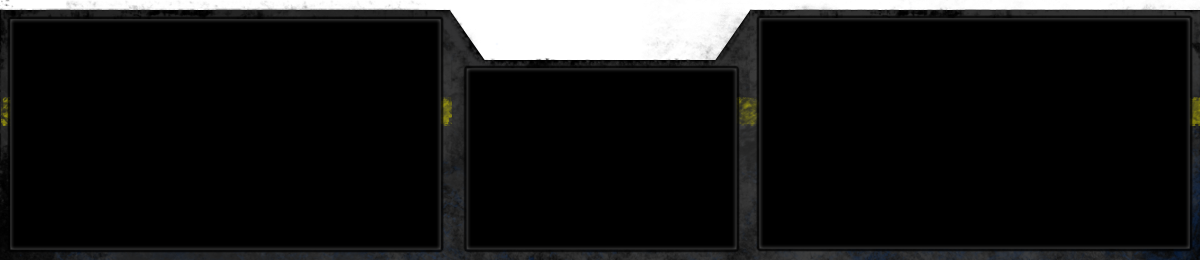
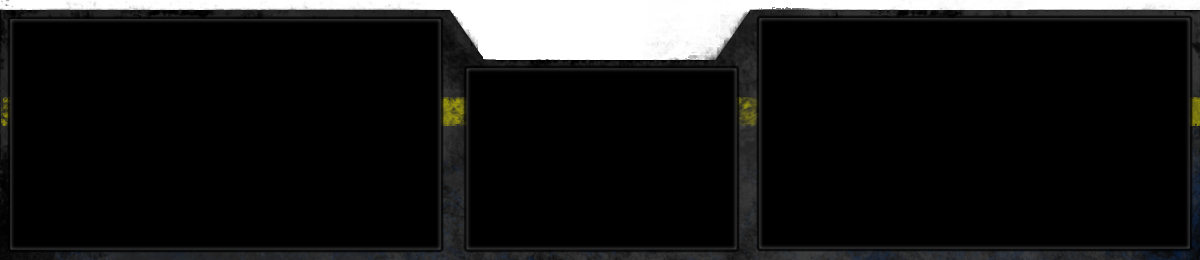
more hovers, combat results menu pretty (but empty), more speed optimizations to prevent graphics lag

diff --git a/tools/selectObject.js b/tools/selectObject.js
@@ -6,6 +6,14 @@ function pickObject()
 	var pl = findObject(ray_sp,ray);
 	return pl;
 }
+function pickObjectSimple()
+{
+	var rays = getRay();
+	var ray = rays.slice(0,4);
+	var ray_sp = rays.slice(4,7);
+	var pl = findObjectSimple(ray_sp,ray);
+	return pl;
+}
 function pickSun()
 {
 	var rays = getRay();
@@ -154,7 +162,46 @@ function getClickLocationOnPlane()
 	
 	return pos;
 }
-
+function findObjectSimple(sp,r)
+{
+	//normalize ray
+	var ray = new v3(r[0],r[1],r[2]);
+	ray = ray.normalize();
+	//create list of possible planets
+	var collisions = new Array();
+	var planetCollisions = new Array();
+	var i,j;
+	var pos = new v3(sp[0],sp[1],sp[2]);
+	
+	
+	var i = -pos.y/ray.y;
+	
+	pos.x = pos.x+i*ray.x;
+	pos.y = pos.y+i*ray.y;
+	pos.z = pos.z+i*ray.z;
+	
+	var pos_2 = new v2(pos.x,pos.z);
+	//now if it's near a planet
+	var pl = null;
+	
+	for (i=0;i<mp.systems.length;i++)
+	{
+		for (j=0;j<mp.systems[i].planets.length;j++)
+		{
+			var xz = new v2(mp.systems[i].planets[j].pos.x+mp.systems[i].pos.x,mp.systems[i].planets[j].pos.z+mp.systems[i].pos.z);
+			var dist = pos_2.distance(xz);
+			if (dist < 70)
+			{
+				pl = new c2(i,j);
+			}
+		}
+	}
+	
+	if (pl != null)
+		return pl;
+	else
+		return -1;
+}
 function checkNear(test,val,amt)
 {
 	if (test < val+amt && test > val-amt)

diff --git a/tools/images.js b/tools/images.js
@@ -5,12 +5,14 @@ function images()
 	this.info_bar = new Image();
 	this.end_turn = new Image();
 	this.upgrade_planet = new Image();
+	this.ok_button = new Image();
 	this.options_bar = new Image();
 	this.planet_cost = new Image();
 	this.left_arrow = new Image();
 	this.right_arrow = new Image();
 	this.hover_background = new Image();
 	this.hover_background_220 = new Image();
+	this.combat_background = new Image();
 	
 	this.planets_64 = new Array();
 	this.ship_buttons = new Array();
@@ -21,12 +23,14 @@ function images()
 	this.info_bar.src = "images/info_bar.png";
 	this.end_turn.src = "images/end_turn_button.png";
 	this.upgrade_planet.src = "images/upgrade_planet_button.png";
+	this.ok_button.src = "images/ok_button.png";
 	this.options_bar.src = "images/options_bar.png";
 	this.planet_cost.src = "images/planet_cost.png";
 	this.left_arrow.src = "images/left_arrow.png";
 	this.right_arrow.src = "images/right_arrow.png";
 	this.hover_background.src = "images/hover_background.png";
 	this.hover_background_220.src = "images/hover_background_220.png";
+	this.combat_background.src = "images/combat_background.png";
 	
 	//load planet images
 	var i;

diff --git a/tools/io_handler.js b/tools/io_handler.js
@@ -7,6 +7,7 @@ function handleMouseMove(evt)
 	{
 		mousex = Math.max(0,Math.min(canvas.width,evt.clientX-10));
 		mousez = Math.max(0,Math.min(canvas.height,evt.clientY-10));
+		drawHover = -1;
 		
 		if (evt.clientX-10>canvas.width || evt.clientY-10>canvas.height)
 		{
@@ -45,10 +46,9 @@ function handleMouseMove(evt)
 			cam.translate(dz/100,-dx/100);
 		}
 		
-		if (!lPressed && !rPressed && !mPressed)
+		if (!lPressed && !rPressed && !mPressed && !anyButtonsPressed())
 		{
 			//hovering code
-			drawHover = -1;
 			//check hovering over buttons
 			if (mousez > canvas.height - OptionBarHeight)
 			{
@@ -80,7 +80,7 @@ function handleMouseMove(evt)
 			}
 			else
 			{ //planet hovers
-				planetHover = pickObject();
+				planetHover = pickObjectSimple();
 				if (planetHover != -1)
 				{
 					//planetXY = mp.systems[planetHover.a].planets[planetHover.b].getPlanetXY();
@@ -332,4 +332,10 @@ function rightDoubleClick()
 {
 	var loc = getClickLocationOnPlane();
 	cam.flyTo(loc);
+}
+function anyButtonsPressed()
+{
+	if (cam.fwd || cam.bck || cam.left || cam.right || shiftPressed)
+		return true;
+	return false;
 }

diff --git a/draw/draw2d.js b/draw/draw2d.js
@@ -223,10 +223,10 @@ function onHover(x,y,type,obj)
 		ctx.drawImage(img.planet_cost, x+x_offset+5,y+y_offset+125);
 		//now draw upgrade costs
 		ctx.font = "12pt Calibri";
-		ctx.fillText(selectedPlanet.upgradeStats.credits, x+x_offset+35, y+y_offset + 136);
-		ctx.fillText(selectedPlanet.upgradeStats.steel, x+x_offset+35, y+y_offset + 136+16);
-		ctx.fillText(selectedPlanet.upgradeStats.plasma, x+x_offset+35, y+y_offset + 136+32);
-		ctx.fillText(selectedPlanet.upgradeStats.antimatter, x+x_offset+35, y+y_offset + 136+48);
+		ctx.fillText(sh.credits, x+x_offset+35, y+y_offset + 136);
+		ctx.fillText(sh.steel, x+x_offset+35, y+y_offset + 136+16);
+		ctx.fillText(sh.plasma, x+x_offset+35, y+y_offset + 136+32);
+		ctx.fillText(sh.antiMatter, x+x_offset+35, y+y_offset + 136+48);
 
 	}
 	else if (type == 2)

diff --git a/draw/combatResults.js b/draw/combatResults.js
@@ -8,16 +8,21 @@ function combatResults(){
 }
 
 combatResults.prototype.draw = function(){
-	ctx.fillStyle = '#34282C';
-	ctx.fillRect(this.x, this.y, 400, 350);
-	//ctx.fillStyle = 'red';
-	//ctx.fillRect(0,0,700,700);
+	ctx.drawImage(img.combat_background,this.x,this.y);
+	
+	//draw title
+	ctx.fillStyle = 'white';
+	ctx.font = "16pt Calibri";	
+	ctx.fillText("Combat Results",this.x+135,this.y+40);	
+	
+	//fill in other combat results here
+	
 	
 	this.buttons.draw();
 }
 
 combatResults.prototype.show = function(){
-	this.buttons.addButton(this.x + 100, this.y + 250, 200, 50, '#657383', "OK", buttonType.RemoveCR);	
+	this.buttons.addButton(this.x + 100, this.y + 300, 200, 50, '#657383', "OK", buttonType.RemoveCR);	
 	this.active = true;	
 }
 

diff --git a/tools/button.js b/tools/button.js
@@ -37,6 +37,9 @@ function Button(){
 			case buttonType.Upgrade:
 				targetCanvas.drawImage(img.upgrade_planet,that.x+20,that.y);
 			break;
+			case buttonType.RemoveCR:
+				targetCanvas.drawImage(img.ok_button,that.x,that.y);
+			break;
 			default:
 				targetCanvas.fillStyle = that.fill;
 				targetCanvas.fillRect(that.x, that.y, that.w, that.h);

diff --git a/tools/vectors.js b/tools/vectors.js
@@ -49,6 +49,14 @@ v2.prototype.magnitude = function()
 {
 	return Math.sqrt(this.x*this.x+this.y*this.y);
 }
+v2.prototype.distance = function(v)
+{
+	var val = 0;
+	var dx = v.x-this.x;
+	var dy = v.y-this.y;
+	val = Math.sqrt(dx*dx+dy*dy);
+	return val;
+}
 
 function v3(x,y,z)
 {

diff --git a/game.js b/game.js
@@ -73,7 +73,7 @@ var maxDiff = 300;
 var planetHover = null;
 var timecheck = new Date().getTime();
 var fps;
-var drawFPS = true;
+var drawFPS = false;
 
 //draw vars
 var zNear = 0.1;
